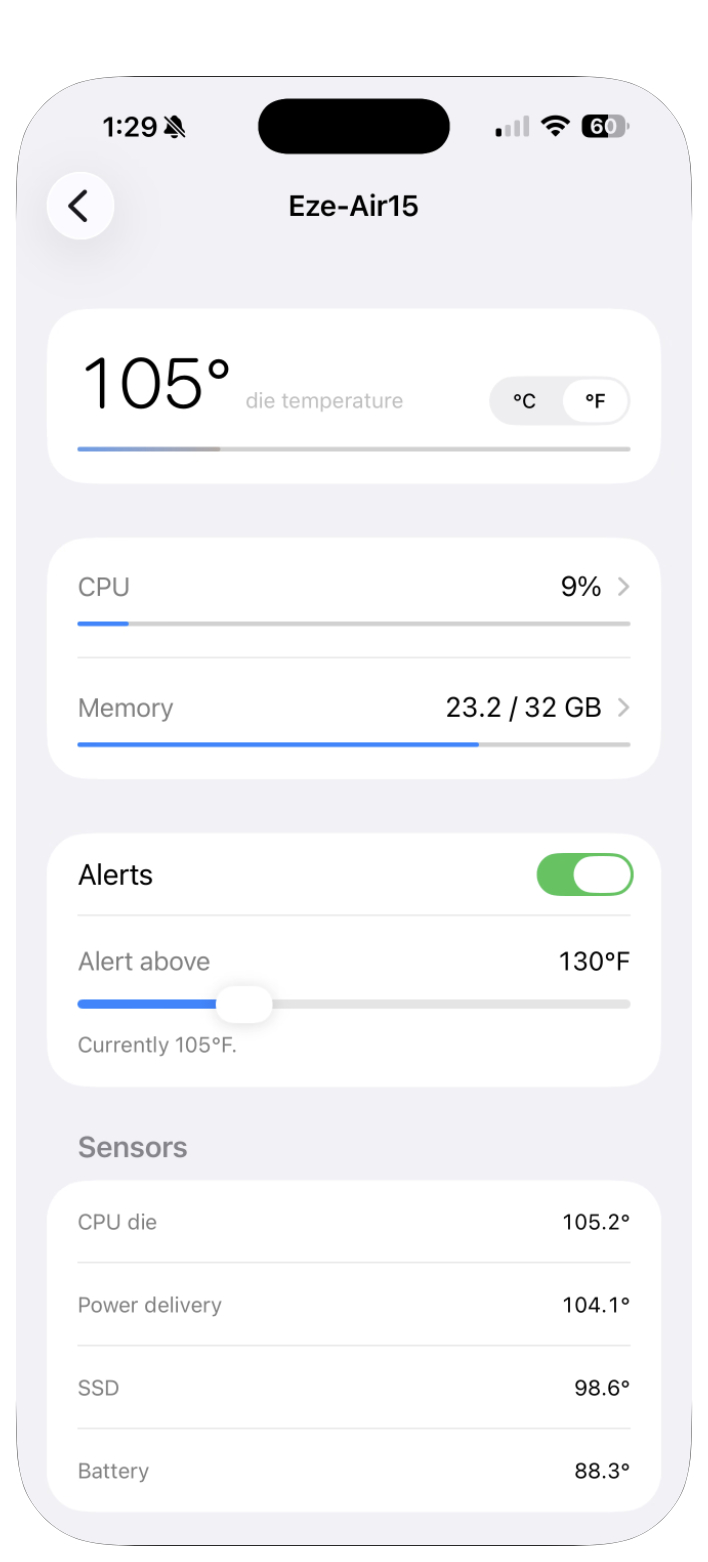
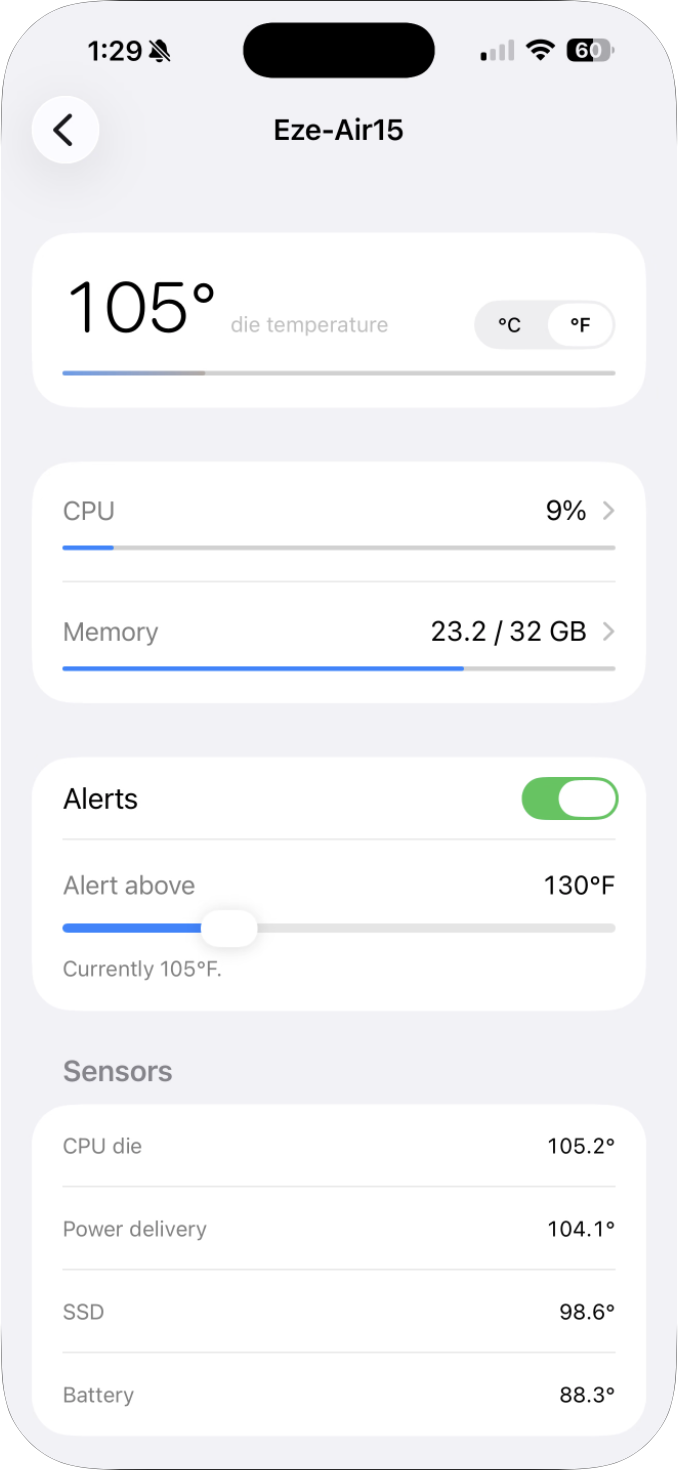
README: equalize the rendered size of the screenshot pair
phone.png carried the mirroring window's transparent margins (76px top,
15px sides), so its visible content rendered smaller than its width
attribute promised. Crop to the alpha bounding box and set widths
(321/249) so both images display at the same 540px height.

Claude-Session: https://claude.ai/code/session_012Ydq2k9nFU1SuUQdW281XK

diff --git a/README.md b/README.md
@@ -3,9 +3,9 @@
 A minimalist macOS menu bar system monitor — and a secure companion app to watch (and lightly control) your Macs from your iPhone, from anywhere.
 
 <p align="center">
-  <img src="docs/screenshots/menubar.png" alt="MinStats in the macOS menu bar with its popover open" width="308">
+  <img src="docs/screenshots/menubar.png" alt="MinStats in the macOS menu bar with its popover open" width="321">
   &nbsp;&nbsp;
-  <img src="docs/screenshots/phone.png" alt="MinStats iOS companion showing the same Mac" width="235">
+  <img src="docs/screenshots/phone.png" alt="MinStats iOS companion showing the same Mac" width="249">
 </p>
 
 Most system monitors show you everything. **MinStats shows you the vital few — temperature, CPU, RAM — beautifully**, and nothing you'll never read. It started as a menu bar app because I couldn't find an elegant one. It grew a phone companion because I wanted the same glance after I walked away from the machine.
